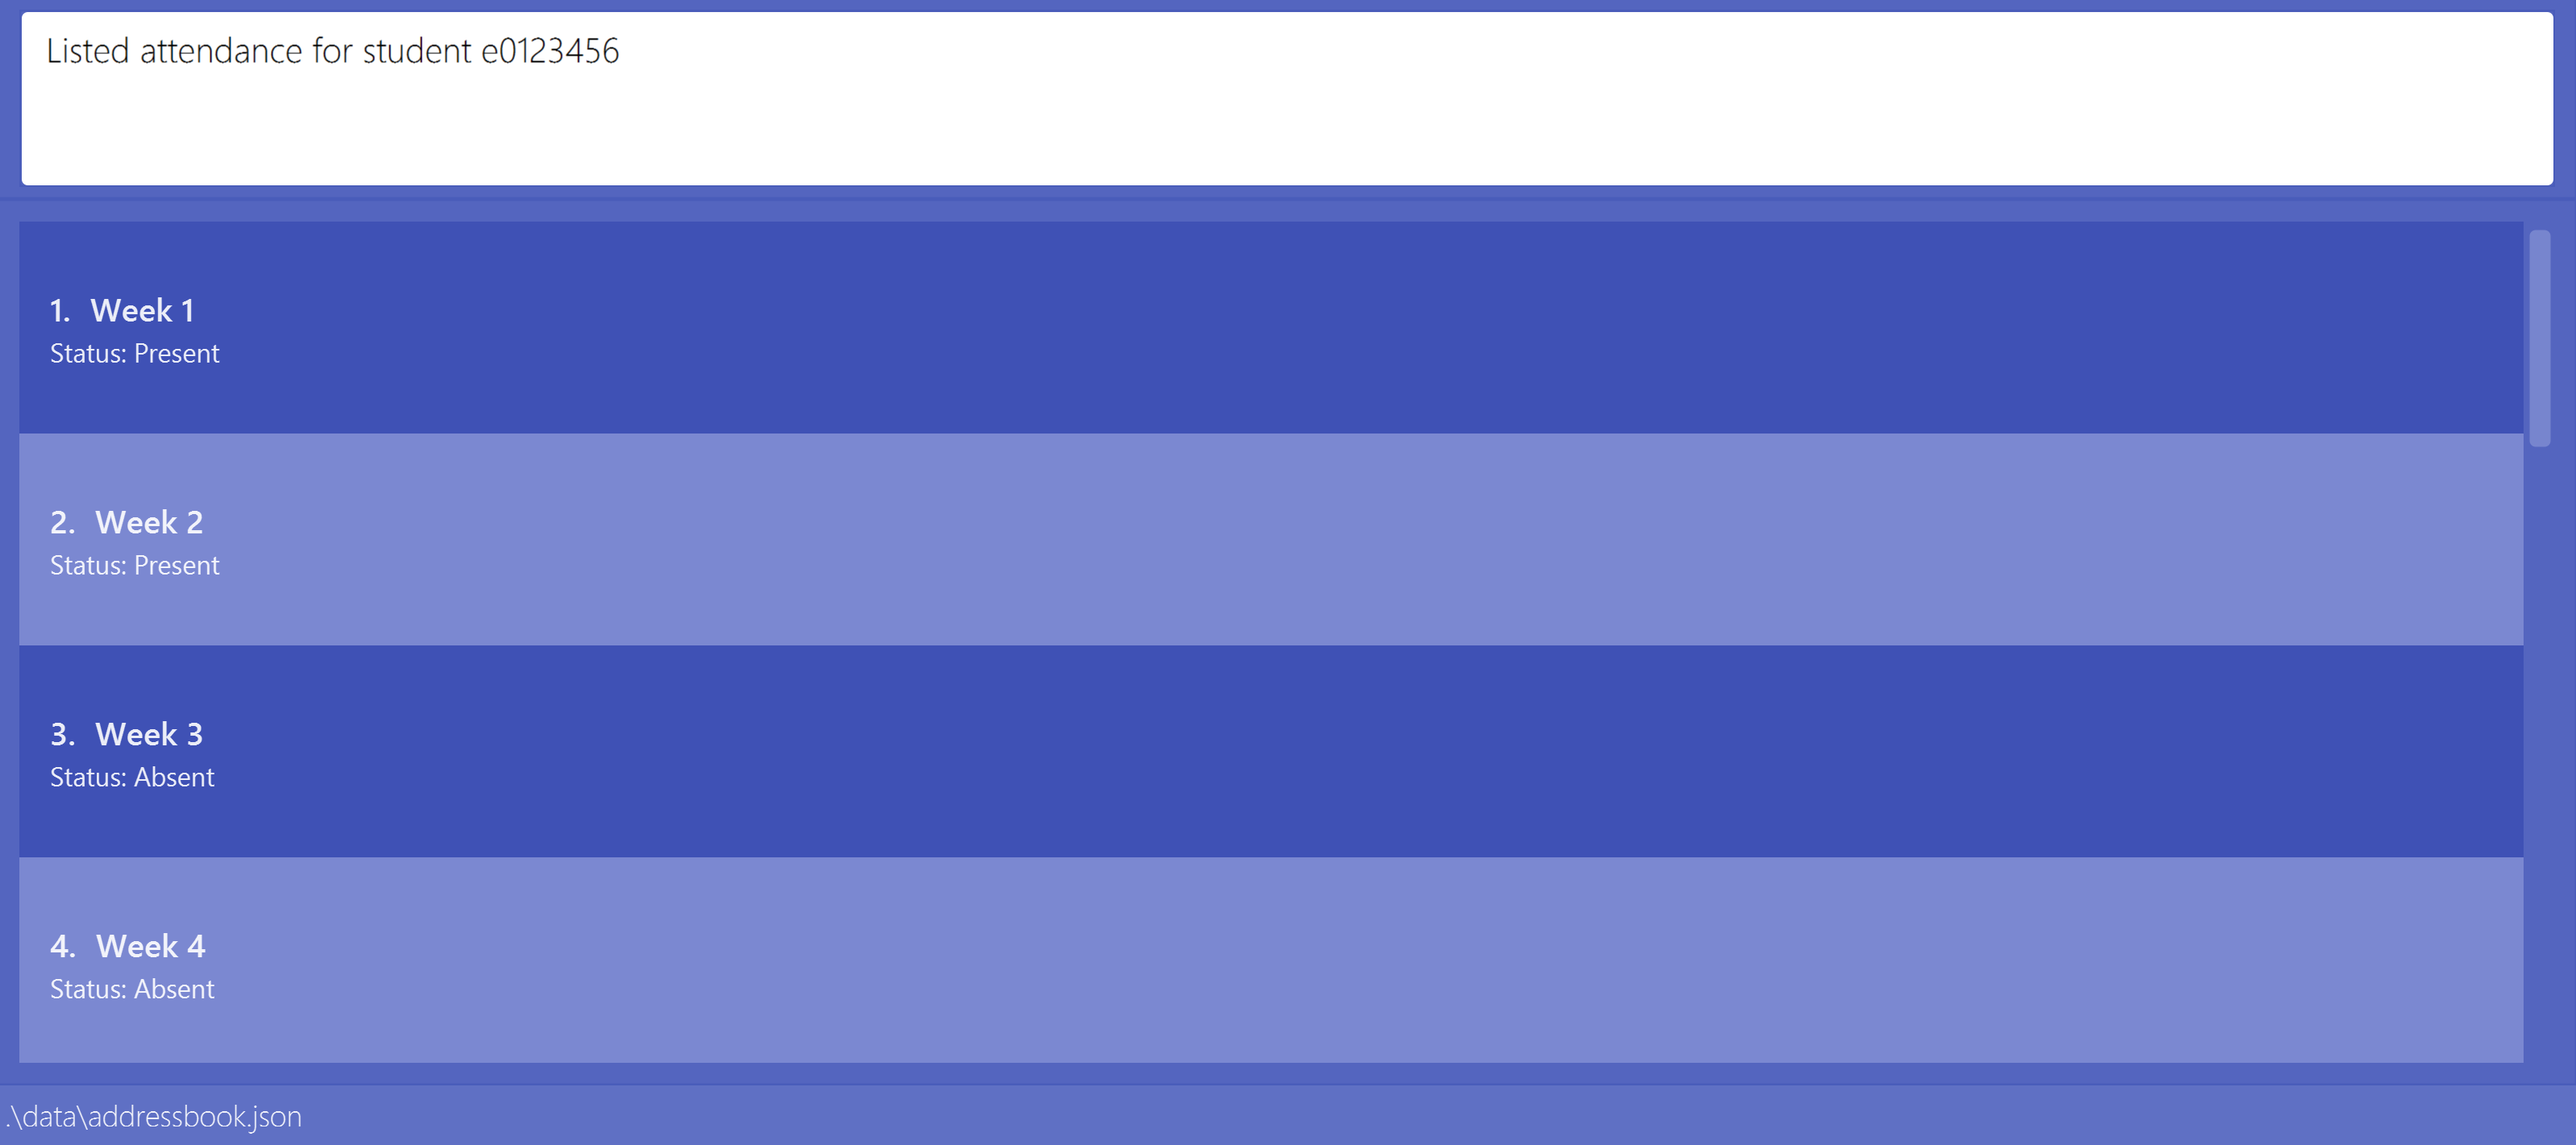
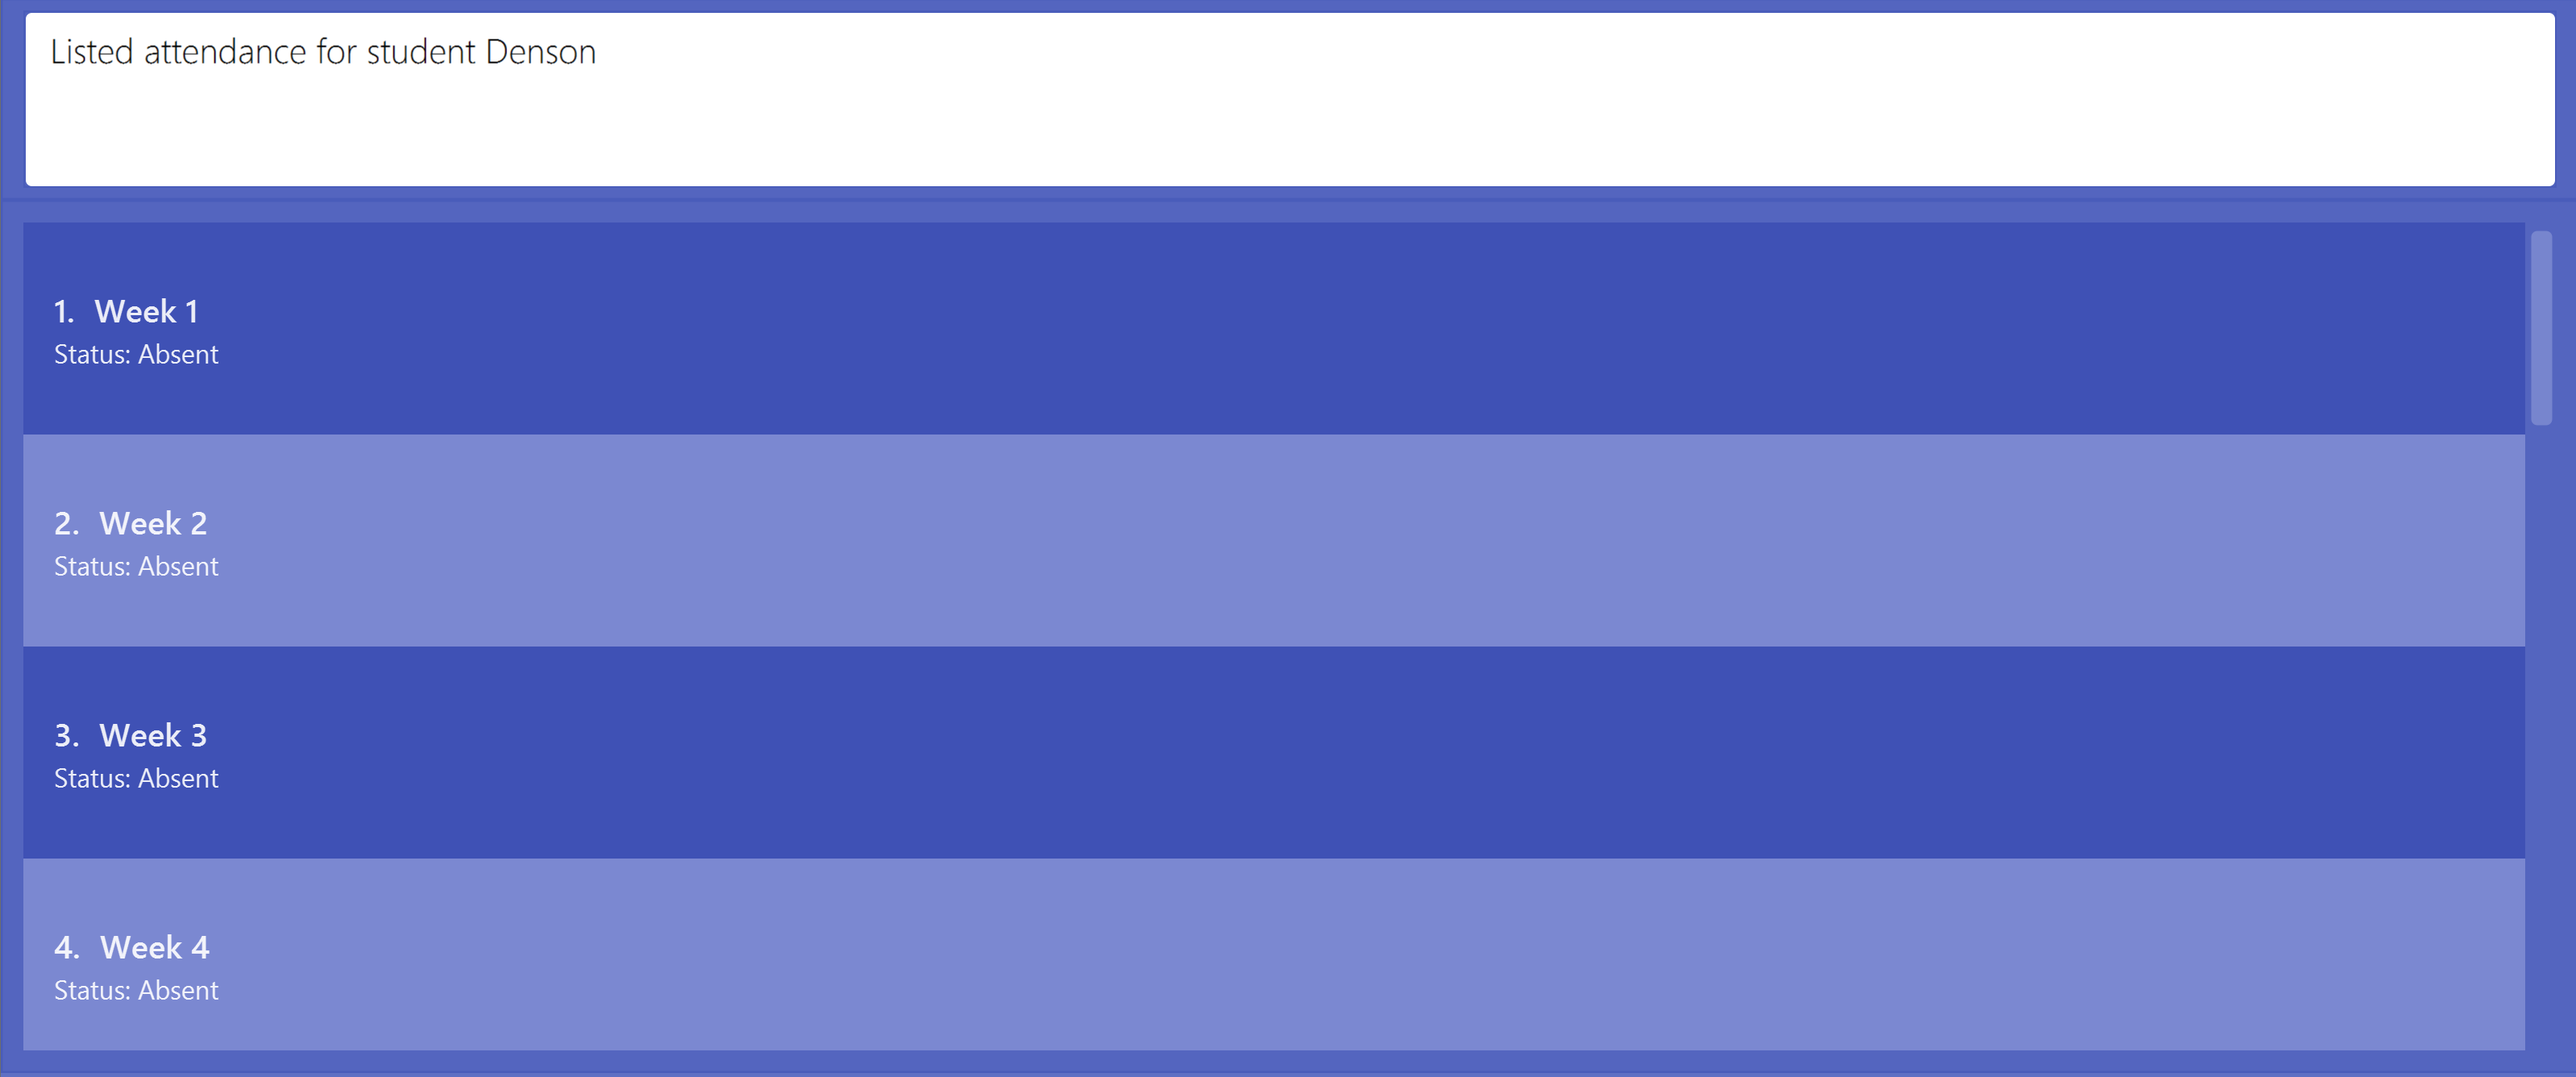
Replace outdated screenshots

diff --git a/docs/UserGuide.md b/docs/UserGuide.md
@@ -259,7 +259,7 @@ Examples:
 * `list_attendance tn/T04 wk/2`
   ![result for `list_attendance tn/T04 wk/2`](images/listAttendance.png)
 * `list_attendance n/Denson`
-  ![result for `list_attendance id/e0123456`](images/listAttendanceByStudent.png)
+  ![result for `list_attendance n/Denson`](images/listAttendanceByStudent.png)
   
 
 ### Editing a person : `edit`
@@ -298,8 +298,8 @@ Format: `find KEYWORD [MORE_KEYWORDS]`
 Examples:
 
 * `find John` returns `john` and `John Doe`
-* `find alex david` returns `Alex Yeoh`, `David Li`<br>
-  ![result for 'find alex david'](images/findAlexDavidResult.png)
+* `find flash peter` returns `Flash Thompson`, `Peter Parker`<br>
+  ![result for 'find flash peter'](images/findFlashPeterResult.png)
 
 Find persons whose details by prefix matches any of the given keywords by prefix.
 
@@ -446,8 +446,8 @@ Format: `view_comment n/NAME`
 * `NAME` refers to the student's name saved in camNUS.
 
 Examples:
-* `view_comment n/John Tan`<br>
-  ![result for 'view_comment id/e0123456'](images/viewCommentResult.png)
+* `view_comment n/Flash Thompson`<br>
+  ![result for 'view_comment n/Flash Thompson'](images/viewCommentResult.png)
 
 ### Clearing all entries : `clear`
 
